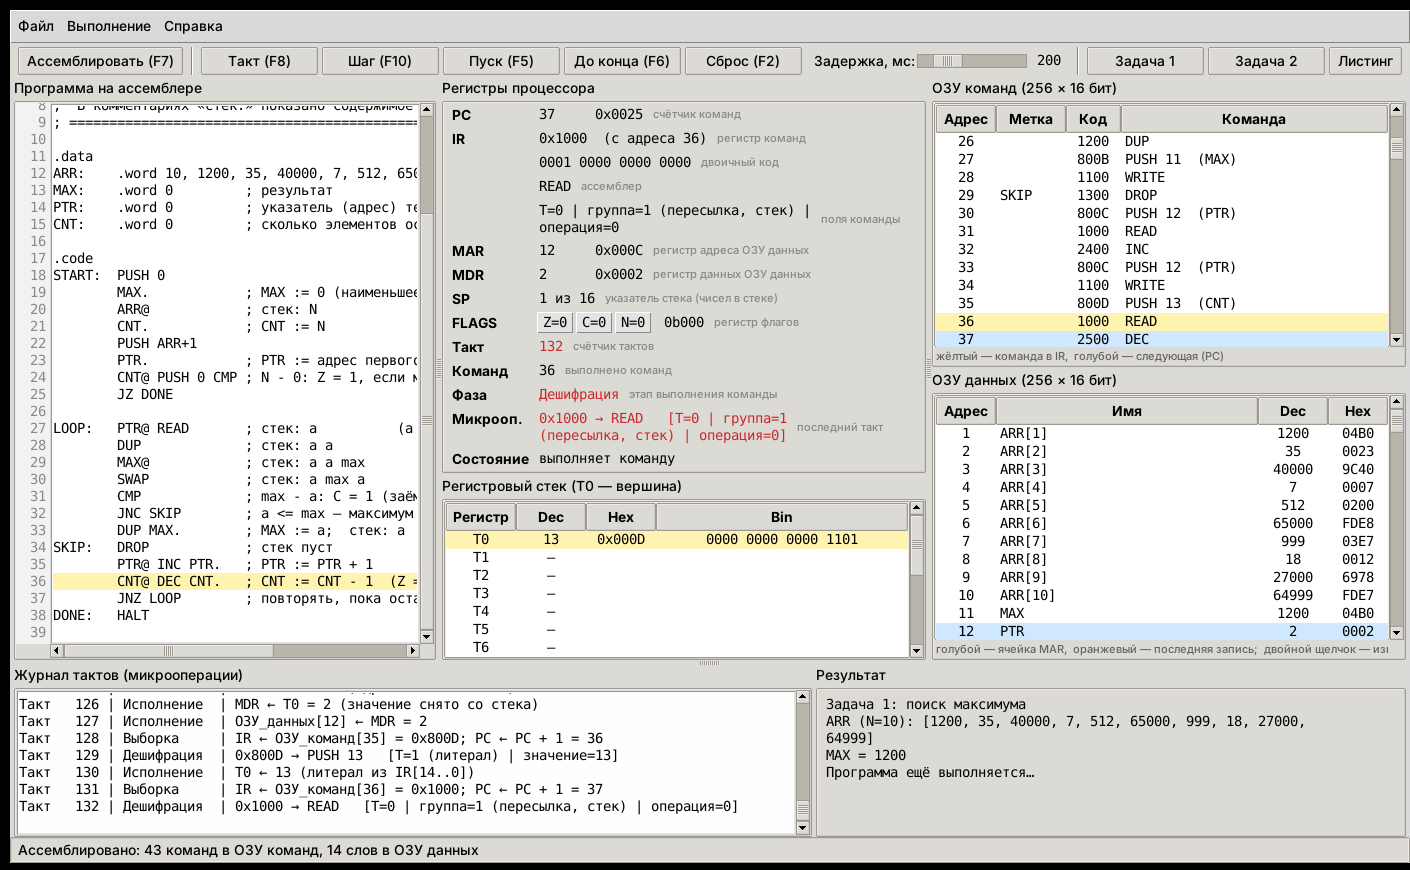
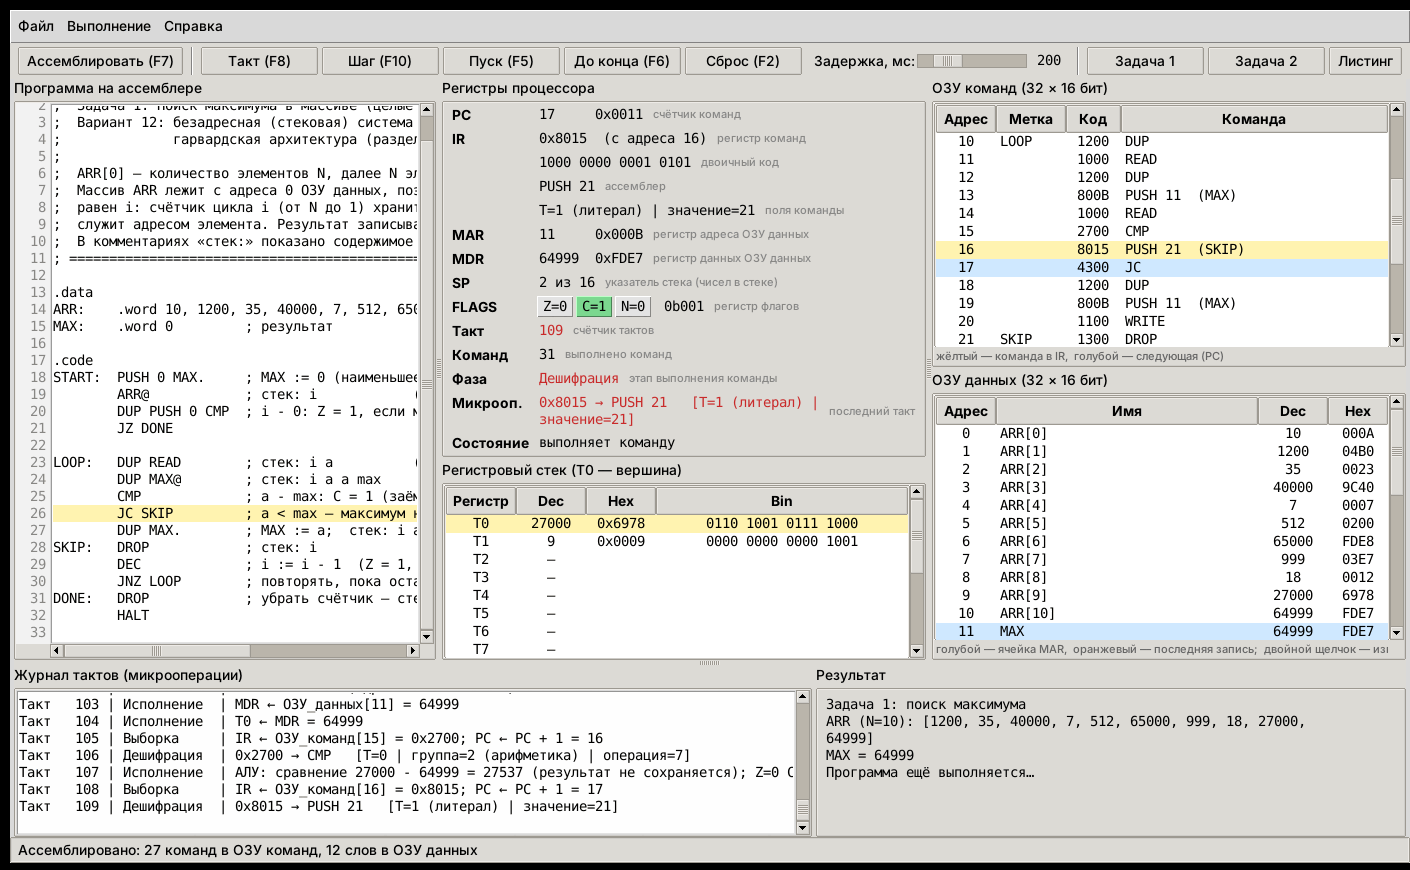
Уменьшить ОЗУ команд и ОЗУ данных до 32 ячеек
- CODE_SIZE и DATA_SIZE = 32 (по одной 16-битной команде в ячейке)
- программы переписаны компактнее: счётчик цикла хранится в стеке и
  служит адресом элемента (массив с адреса 0); задача 1 — 27 команд,
  задача 2 — 31 команда, результат свёртки по-прежнему 48 бит
- тесты и README обновлены под новые размеры

Claude-Session: https://claude.ai/code/session_01HGhaUkvPTSDMaHjz4NiMoF

diff --git a/emulator/tests/test_emulator.py b/emulator/tests/test_emulator.py
@@ -4,6 +4,7 @@
 """
 import os
 import random
+import re
 import sys
 import time
 import unittest
@@ -170,8 +171,10 @@ class AssemblerTest(unittest.TestCase):
 
     def test_code_overflow(self):
         with self.assertRaises(AsmError):
-            assemble("NOP " * 257)
-        self.assertEqual(len(assemble("NOP " * 256).code), 256)
+            assemble("NOP " * 33)
+        self.assertEqual(len(assemble("NOP " * 32).code), 32)
+        with self.assertRaises(AsmError):
+            assemble(".data\n.space 33")
 
     def test_listing(self):
         text = format_listing(assemble(load_source(TASK1)))
@@ -184,8 +187,8 @@ class CpuTest(unittest.TestCase):
     def test_initial_state(self):
         cpu = StackCPU()
         self.assertEqual((cpu.pc, cpu.ir, cpu.mar, cpu.mdr, cpu.sp, cpu.flags), (0, 0, 0, 0, 0, 0))
-        self.assertEqual(len(cpu.cmem), 256)
-        self.assertEqual(len(cpu.dmem), 256)
+        self.assertEqual(len(cpu.cmem), 32)
+        self.assertEqual(len(cpu.dmem), 32)
 
     def test_ticks_per_instruction(self):
         cpu = StackCPU()
@@ -370,10 +373,10 @@ class CpuTest(unittest.TestCase):
         with self.assertRaises(CPUError):
             cpu.run()
         cpu = StackCPU()
-        cpu.load([isa.encode("NOP")] * 256, [])
+        cpu.load([isa.encode("NOP")] * 32, [])
         with self.assertRaises(CPUError) as ctx:
             cpu.run()
-        self.assertIn("PC = 256", str(ctx.exception))
+        self.assertIn("PC = 32", str(ctx.exception))
 
     def test_run_limit(self):
         prog = assemble("L: JMP L")
@@ -403,23 +406,30 @@ class CpuTest(unittest.TestCase):
         self.assertEqual(cpu.dmem[0], 77)
 
 
+def with_array(source, label, values):
+    """Заменить строку «LABEL: .word …» в тексте программы новым массивом."""
+    values = list(values)
+    line = f"{label}: .word " + ", ".join(map(str, [len(values)] + values))
+    new, count = re.subn(rf"^{label}:.*$", line, source, flags=re.M)
+    assert count == 1
+    return new
+
+
 class Task1MaxTest(unittest.TestCase):
     def setUp(self):
-        self.prog = assemble(load_source(TASK1))
-        self.base = self.prog.data_addr("ARR")
-        self.max_addr = self.prog.data_addr("MAX")
-        self.capacity = self.max_addr - self.base - 1
+        self.source = load_source(TASK1)
 
     def run_with(self, values):
-        data = list(self.prog.data)
-        tasks.write_array(data, self.base, values)
-        cpu = StackCPU()
-        cpu.load(self.prog.code, data)
-        cpu.run()
+        prog, cpu = run_source(with_array(self.source, "ARR", values))
         self.assertTrue(cpu.halted)
         self.assertIsNone(cpu.error)
         self.assertEqual(cpu.stack, [], "стек должен остаться пустым")
-        return cpu.dmem[self.max_addr]
+        return cpu.dmem[prog.data_addr("MAX")]
+
+    def test_fits_memory(self):
+        prog = assemble(self.source)
+        self.assertLessEqual(len(prog.code), 32)
+        self.assertEqual(prog.data_addr("ARR"), 0)   # адрес ARR[i] = i
 
     def test_example(self):
         prog, cpu = run_source(load_source(TASK1))
@@ -437,6 +447,8 @@ class Task1MaxTest(unittest.TestCase):
             [40000, 30000, 50000, 100, 200, 300],
             [42],
             [],
+            list(range(1, 16)),                  # 15 элементов
+            list(range(30, 0, -1)),              # 30 элементов — заняты все 32 ячейки
         ]
         for values in cases:
             with self.subTest(values=values):
@@ -445,7 +457,7 @@ class Task1MaxTest(unittest.TestCase):
     def test_random_arrays(self):
         rnd = random.Random(12)
         for _ in range(300):
-            n = rnd.randint(6, self.capacity)
+            n = rnd.randint(6, 15)
             values = [rnd.randint(0, 65535) for _ in range(n)]
             self.assertEqual(self.run_with(values), max(values), values)
 
@@ -499,6 +511,19 @@ class Task2ConvolutionTest(unittest.TestCase):
             a = [rnd.randint(0, 65535) for _ in range(6)]
             b = [rnd.randint(0, 65535) for _ in range(6)]
             self.assertEqual(self.run_with(a, b), tasks.expected_convolution(a, b), (a, b))
+
+    def test_fits_memory(self):
+        self.assertLessEqual(len(self.prog.code), 32)
+        self.assertEqual(self.a, 0)                   # адрес A[i] = i
+
+    def test_other_length(self):
+        rnd = random.Random(5)
+        a = [rnd.randint(0, 65535) for _ in range(13)]
+        b = [rnd.randint(0, 65535) for _ in range(13)]
+        source = with_array(with_array(load_source(TASK2), "A", a), "B", b)
+        prog, cpu = run_source(source)
+        self.assertEqual(tasks.convolution_result(prog, cpu.dmem),
+                         tasks.expected_convolution(a, b))
 
     def test_uses_long_arithmetic(self):
         mnemonics = {isa.disassemble(w).split()[0] for w in self.prog.code}

diff --git a/emulator/gui.py b/emulator/gui.py
@@ -56,8 +56,8 @@ HELP_FORMAT = """\
   Для бинарных операций: a = T1 (первый операнд), b = T0 (второй).
 
 ГАРВАРДСКАЯ АРХИТЕКТУРА — две независимые памяти:
-  ОЗУ команд  256 слов × 16 бит — адрес задаёт PC, слово попадает в IR;
-  ОЗУ данных  256 слов × 16 бит — доступ только через MAR / MDR
+  ОЗУ команд  32 слова × 16 бит — адрес задаёт PC, слово попадает в IR;
+  ОЗУ данных  32 слова × 16 бит — доступ только через MAR / MDR
               (команды READ и WRITE).
 
 ТАКТЫ ВЫПОЛНЕНИЯ КОМАНДЫ
@@ -126,8 +126,8 @@ HELP_REGS = """\
   Такт   — счётчик тактов процессора
   Команд — счётчик выполненных команд
 
-  ОЗУ команд — 256 слов × 16 бит (программа)
-  ОЗУ данных — 256 слов × 16 бит (массивы и переменные)
+  ОЗУ команд — 32 слова × 16 бит (программа)
+  ОЗУ данных — 32 слова × 16 бит (массивы и переменные)
 
 ЦВЕТА
   жёлтый   — команда, находящаяся в IR (выполняется / только что выполнена);

diff --git a/emulator/cpu.py b/emulator/cpu.py
@@ -2,8 +2,8 @@
 Модель безадресного стекового процессора с гарвардской архитектурой.
 
 Компоненты:
-    ОЗУ команд   cmem  256 × 16 бит — адресуется счётчиком команд PC
-    ОЗУ данных   dmem  256 × 16 бит — доступ только через MAR / MDR
+    ОЗУ команд   cmem  32 × 16 бит — адресуется счётчиком команд PC
+    ОЗУ данных   dmem  32 × 16 бит — доступ только через MAR / MDR
     PC    — счётчик команд (адрес следующей команды)
     IR    — регистр команд (текущая команда)
     MAR   — регистр адреса ОЗУ данных
@@ -22,8 +22,8 @@ from collections import deque, namedtuple
 
 import isa
 
-CODE_SIZE = 256
-DATA_SIZE = 256
+CODE_SIZE = 32
+DATA_SIZE = 32
 STACK_DEPTH = 16
 MASK = isa.WORD_MASK
 

diff --git a/emulator/assembler.py b/emulator/assembler.py
@@ -27,8 +27,8 @@ from collections import namedtuple
 
 import isa
 
-CODE_SIZE = 256
-DATA_SIZE = 256
+CODE_SIZE = 32
+DATA_SIZE = 32
 
 NAME_RE = re.compile(r"^[A-Z_][A-Z0-9_]*$")
 EXPR_RE = re.compile(r"^[A-Z0-9_+\-]+$")
